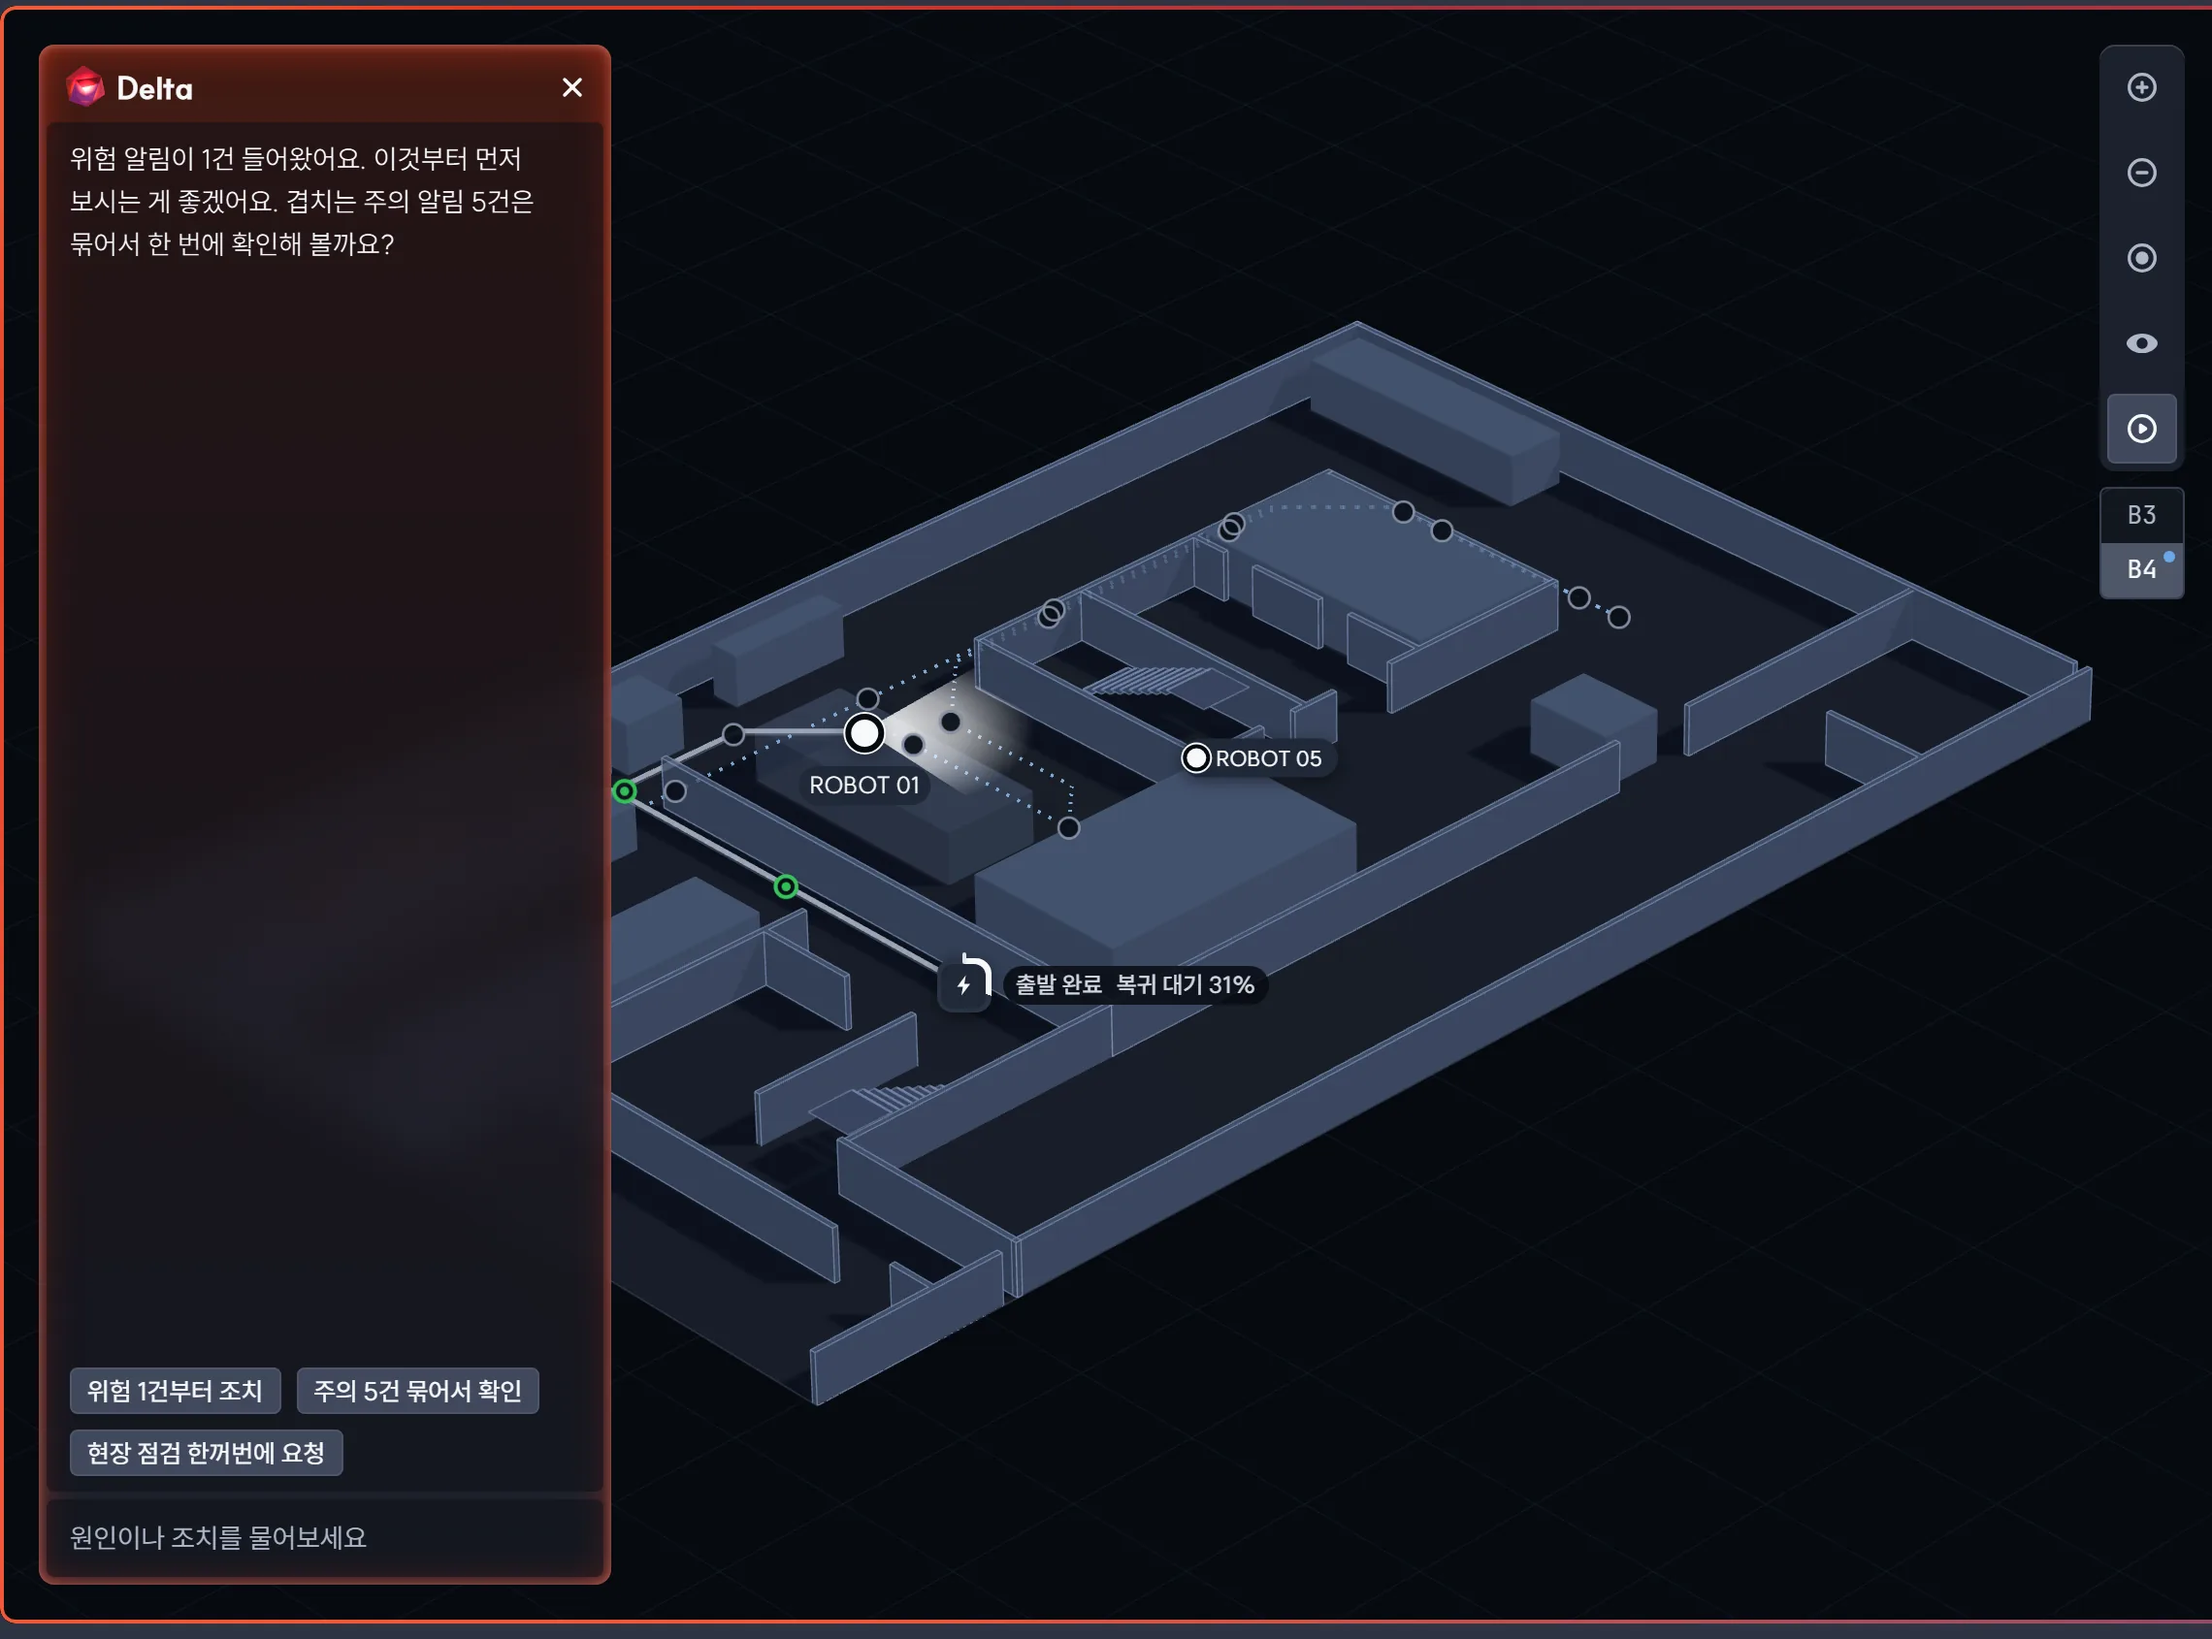
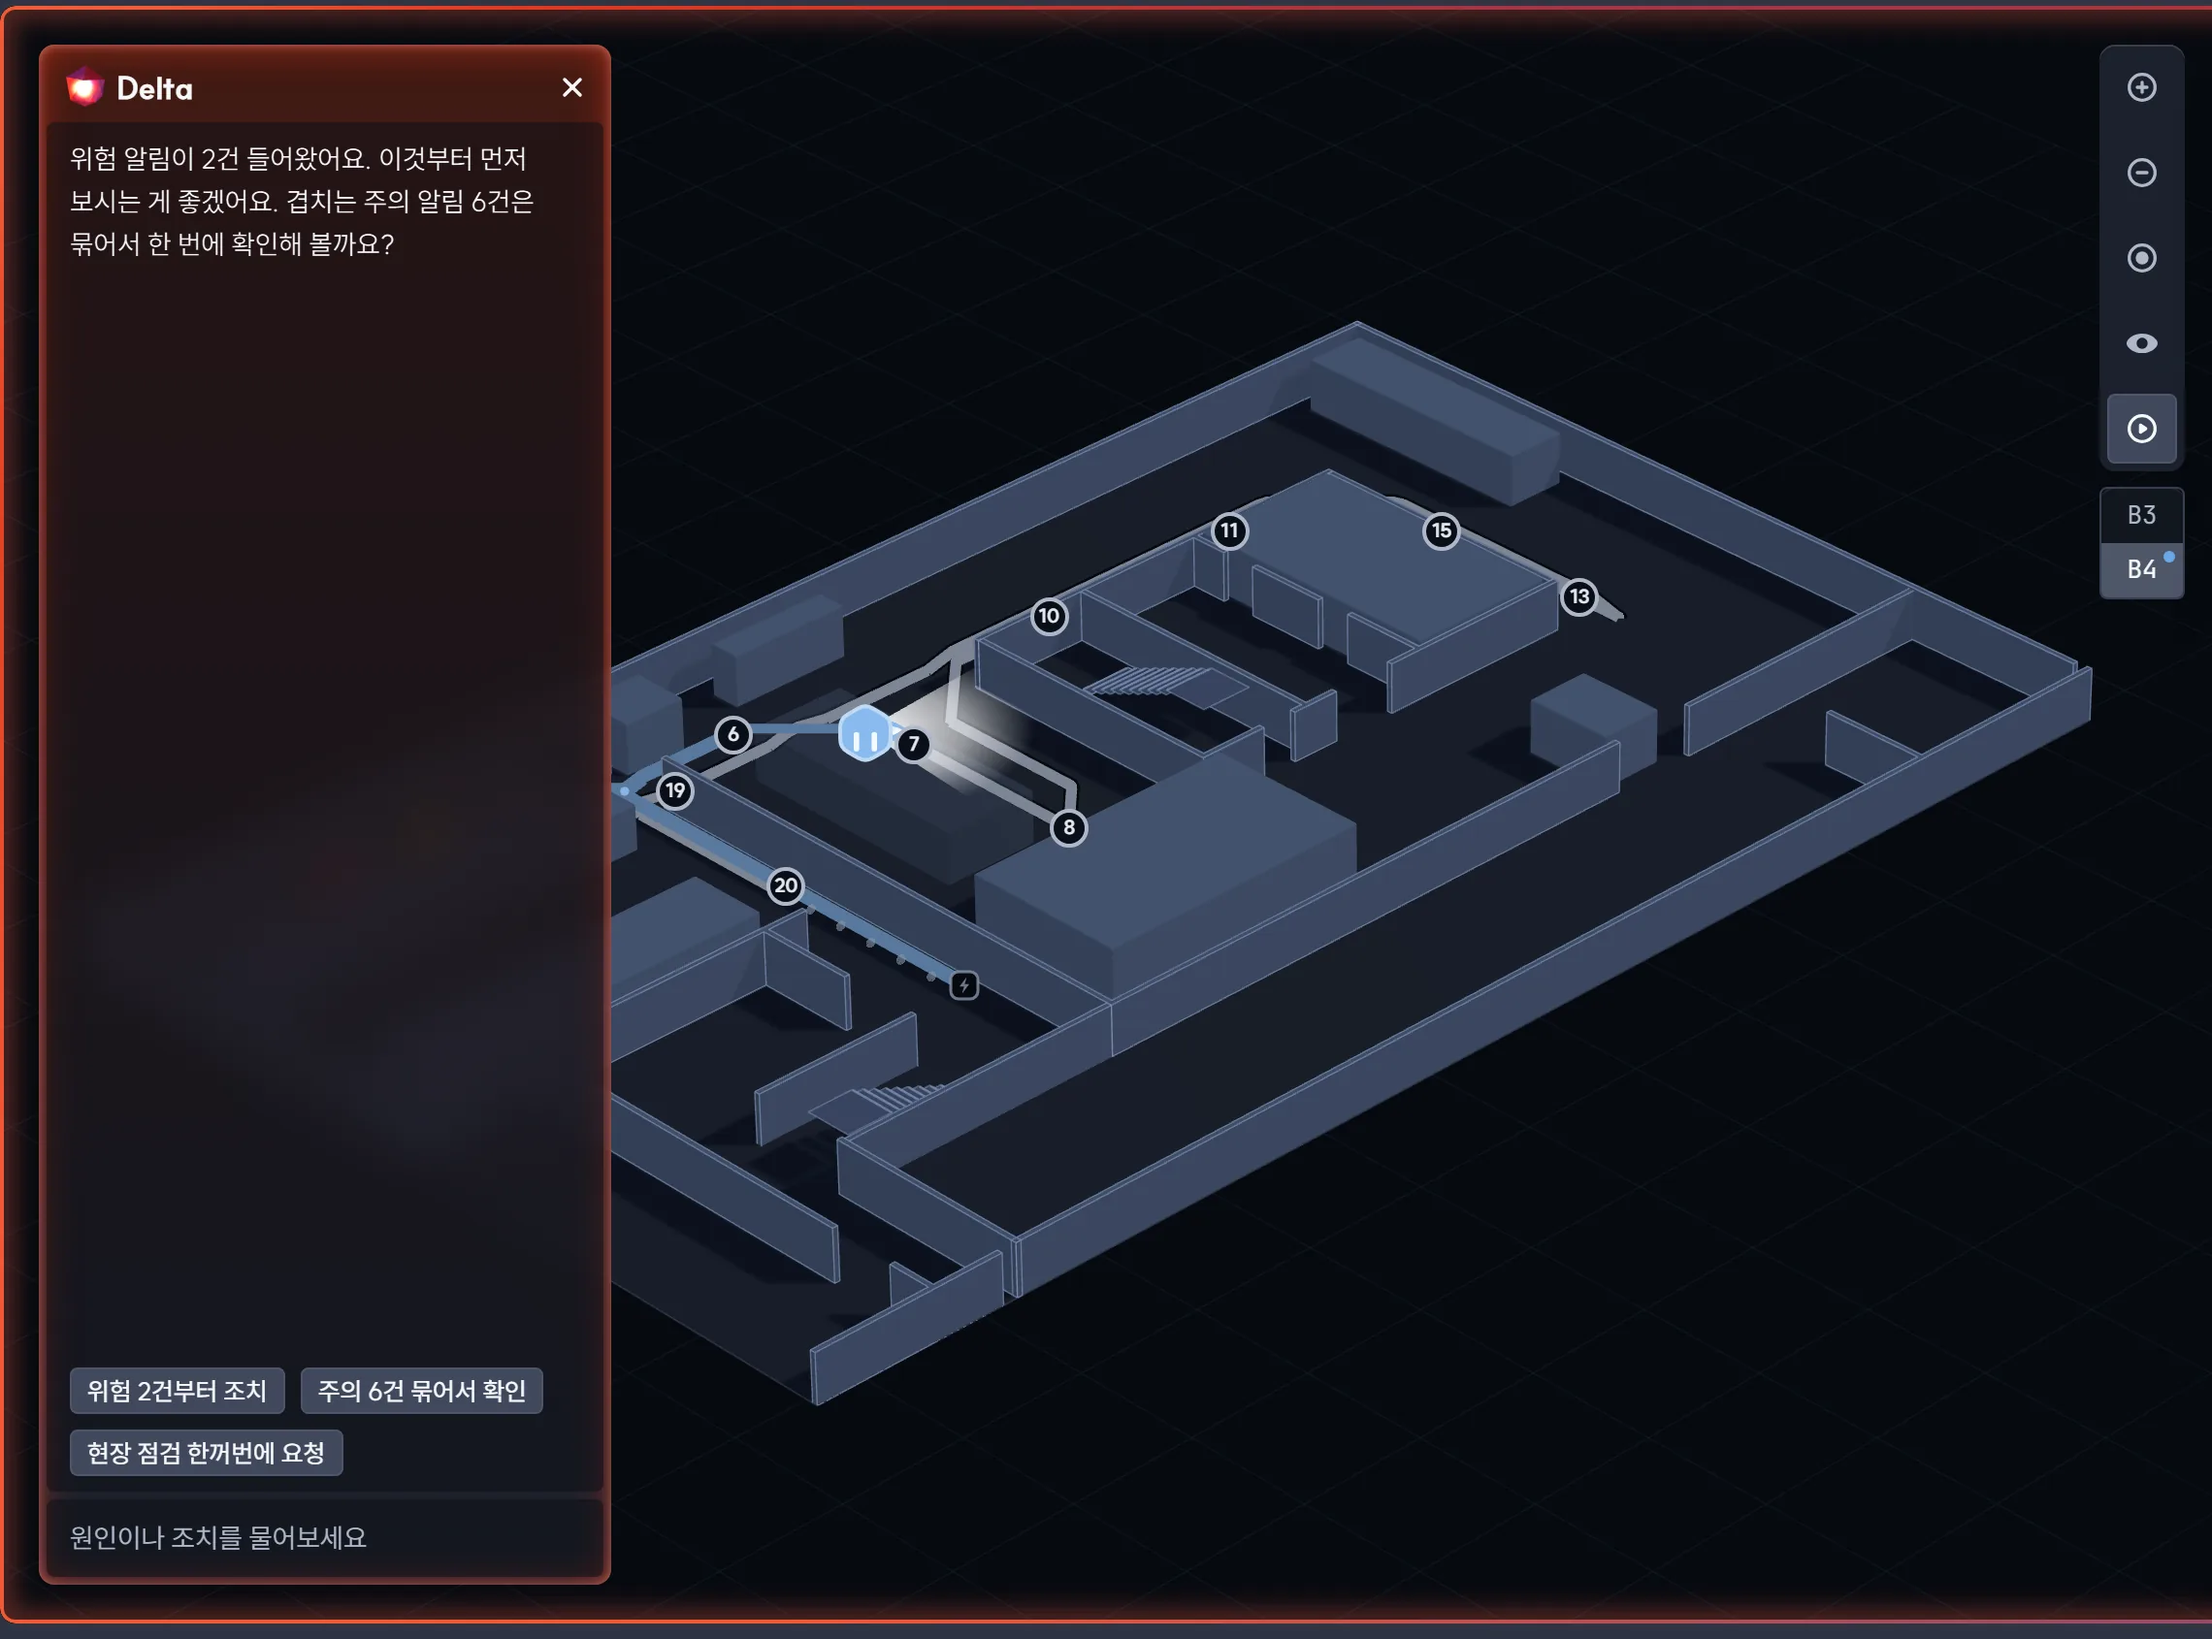
[자문] 26.10.28 — 그림 17장을 지금 v4 로 다시 찍음(지도 경로 표현 · Robot 11 알림 · 로봇 머리 반영)
- 상태 시뮬레이션 막대는 숨기고 찍음
- v4 주의: 위험이 남아 있어 조치 뒤에도 Delta 가 위험이라 주소 #warning(주의만 남은 판)으로
- 문구: 조치 흐름 · 완료 그림 설명에서 "Delta 는 주의로 바뀜" 뺌, 4장 v4 에 경로 네 구간 · 흐름 빛 · 세모 한 줄

diff --git a/advisory-261028.html b/advisory-261028.html
@@ -226,10 +226,10 @@
         <div class="tabs" role="group" aria-label="화면 고르기"></div>
         <div class="frame">
           <img data-tab="시안 1-B" src="./assets/img/compare/05-1b.webp" alt="시안 1-B 알림 상세 모달 — 조치 내용 드롭다운과 확인 처리 버튼" loading="lazy" />
-          <img data-tab="v4 흐름 ▶" data-default data-anim src="./assets/img/compare-1028/05-v4-flow.webp" alt="v4 조치 흐름 — 알림을 누르면 지도 위 팝오버가 열리고, 추천 밖 조치를 하나 더 고른 뒤 조치 완료를 누르면 팝오버가 오늘 확인 완료로 날아 들어가 초록으로 빛나고, Delta 는 주의로 바뀌고 되돌리기 토스트가 뜬다" loading="lazy" />
+          <img data-tab="v4 흐름 ▶" data-default data-anim src="./assets/img/compare-1028/05-v4-flow.webp" alt="v4 조치 흐름 — 알림을 누르면 지도 위 팝오버가 열리고, 추천 밖 조치를 하나 더 고른 뒤 조치 완료를 누르면 팝오버가 오늘 확인 완료로 날아 들어가 초록으로 빛나고 되돌리기 토스트가 뜬다" loading="lazy" />
           <img data-tab="① 팝오버 열기" src="./assets/img/compare-1028/05-v4-1-open.webp" alt="① 알림을 누르면 웨이포인트 옆에 팝오버가 열린다 — 격자 모자이크 사진, DELTA 조치 제안 체크리스트, AI 추천 두 개는 미리 체크" loading="lazy" />
           <img data-tab="② 조치 더 고르기" src="./assets/img/compare-1028/05-v4-2-pick.webp" alt="② 추천 밖 조치(재측정 후 판단)도 더 골라 셋을 체크" loading="lazy" />
-          <img data-tab="③ 완료 · 되돌리기" src="./assets/img/compare-1028/05-v4-3-done.webp" alt="③ 조치 완료 뒤 — 알림이 오늘 확인 완료 맨 위로 옮겨 초록으로 빛나고, Delta 는 주의로 바뀌고, 아래에 되돌리기 토스트" loading="lazy" />
+          <img data-tab="③ 완료 · 되돌리기" src="./assets/img/compare-1028/05-v4-3-done.webp" alt="③ 조치 완료 뒤 — 알림이 오늘 확인 완료 맨 위로 옮겨 초록으로 빛나고, 아래에 되돌리기 토스트" loading="lazy" />
           <img data-tab="④ 전체보기 · 알림 센터" src="./assets/img/compare-1028/05-v4-4-center.webp" alt="④ 최신 알림의 전체보기를 누르면 열리는 알림 센터 — 미확인 · 조치 완료 탭, 미션 · 등급 · 기간 필터, 오른쪽에 사진과 DELTA 조치 제안, 조치 여러 개 선택" loading="lazy" />
         </div>
       </figure>
@@ -250,7 +250,7 @@
           <img data-tab="1-B Delta" src="./assets/img/compare/03-1b.webp" alt="시안 1-B Delta — 지도 아래 띠 하나" loading="lazy" />
           <img data-tab="1 경고" src="./assets/img/compare/04-1-crit.webp" alt="시안 1-A 경고 — 위험은 지도 네 변 빨간 테, 주의도 같은 네 변 테(노랑)" loading="lazy" />
           <img data-tab="v4 위험 ▶" data-default data-anim src="./assets/img/compare-1028/04-v4-crit.webp" alt="v4 위험 화면 녹화 — 네 변 빨간 빛과 Delta 위젯의 붉은 면이 2.4초마다 맥박친다" loading="lazy" />
-          <img data-tab="v4 주의" src="./assets/img/compare-1028/04-v4-warn.webp" alt="v4 주의 — 위험 알림을 조치한 뒤, 지도 왼쪽 위 Delta 모서리에만 노란 빛" loading="lazy" />
+          <img data-tab="v4 주의" src="./assets/img/compare-1028/04-v4-warn.webp" alt="v4 주의 — 위험 알림이 없고 주의만 남은 판, 지도 왼쪽 위 Delta 모서리에만 노란 빛" loading="lazy" />
           <img data-tab="v4 펼침" src="./assets/img/compare-1028/03-v4.webp" alt="v4 Delta 펼침 — 지도 높이 가득한 창, 대화체 요약, 조치 버튼 셋, 아래 묻기 칸" loading="lazy" />
           <img data-tab="v4 대화 ▶" data-anim src="./assets/img/compare-1028/03-v4-chat.webp" alt="v4 Delta 대화 흐름 — 창을 펼쳐 위험 알림부터 설명해 줘를 보내면 답과 칩이 붙고, WP-04 지도에서 보기를 누르면 창이 접히며 지도 위 팝오버가 열린다" loading="lazy" />
           <img data-tab="v4 가로형" src="./assets/img/compare-1028/03-v4-bar.webp" alt="v4 Delta 가로형 — 지도 위 긴 띠 한 장에 요약 두 줄과 근거 줄, 오른쪽 + 로 펼침" loading="lazy" />
@@ -263,7 +263,7 @@
         <p class="num">04</p>
         <h2 id="s4-title">색 · 위계 · 화면 정돈</h2>
         <div class="blk"><p class="k">시안 1-A · 1-B</p><p>파랑이 칸 · 버튼 · 링크 · 상태에 두루 쓰여 중요한 것이 흐려짐. 점선 모양 · 바탕 단계도 제각각.</p></div>
-        <div class="blk now"><p class="k">v4</p><p><b>"파랑은 상태 또는 단 하나의 행동."</b> "지금 여기"는 흰색, 이동 · 보조는 회색, 빨강은 <span class="nw">E-STOP</span>만. 길 점선은 타임라인과 같게, 바탕은 <b>세 단</b>. <b>라이트 테마</b>도 같은 대비 차례.</p></div>
+        <div class="blk now"><p class="k">v4</p><p><b>"파랑은 상태 또는 단 하나의 행동."</b> "지금 여기"는 흰색, 이동 · 보조는 회색, 빨강은 <span class="nw">E-STOP</span>만. 경로는 <b>지나온 길 · 지금 가는 길 · 앞으로 갈 길 · 돌아가는 길</b> 네 구간, 흐름 빛은 지금 가는 길에만, 위험 · 주의 지점은 세모. 바탕은 <b>세 단</b>. <b>라이트 테마</b>도 같은 대비 차례.</p></div>
         <p class="why">색과 모양이 뜻을 하나만 가져야 경고색이 경고로 읽히고, 지도와 목록이 한 화면처럼 읽힘.</p>
       </div>
       <figure class="pic">
@@ -271,7 +271,7 @@
         <div class="frame">
           <img data-tab="시안 1-A" src="./assets/img/compare/01-1a.webp" alt="시안 1-A 미션 모니터링 — 지금 타임라인 칸이 파란 면, 지도 길은 긴 대시 점선" loading="lazy" />
           <img data-tab="시안 1-B" src="./assets/img/compare/01-1b.webp" alt="시안 1-B 미션 모니터링 — 지금 타임라인 칸이 파란 면, 로봇 세 대 카드" loading="lazy" />
-          <img data-tab="v4" src="./assets/img/compare-1028/01-v4.webp" alt="v4 미션 모니터링 — 지금 칸은 흰 면, 길은 타임라인과 같은 점선, 바탕 세 단, 배터리 · 신호 정상은 무채색" loading="lazy" />
+          <img data-tab="v4" src="./assets/img/compare-1028/01-v4.webp" alt="v4 미션 모니터링 — 지금 칸은 흰 면, 경로는 네 구간(지나온 길 옅게 · 지금 가는 길 흐름 빛 · 앞길 회색 · 위험 · 주의 세모), 바탕 세 단, 배터리 · 신호 정상은 무채색" loading="lazy" />
           <img data-tab="v4 라이트" src="./assets/img/compare-1028/07-v4-light.webp" alt="v4 라이트 테마 미션 모니터링 — 다크와 같은 대비 차례, 흰 설비 · 짙은 지도 바탕" loading="lazy" />
         </div>
       </figure>
